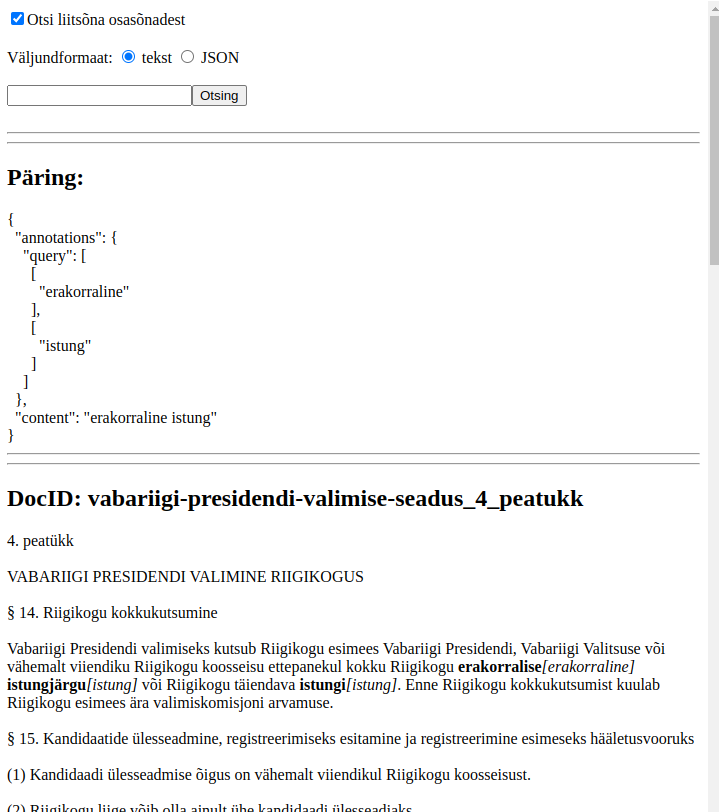
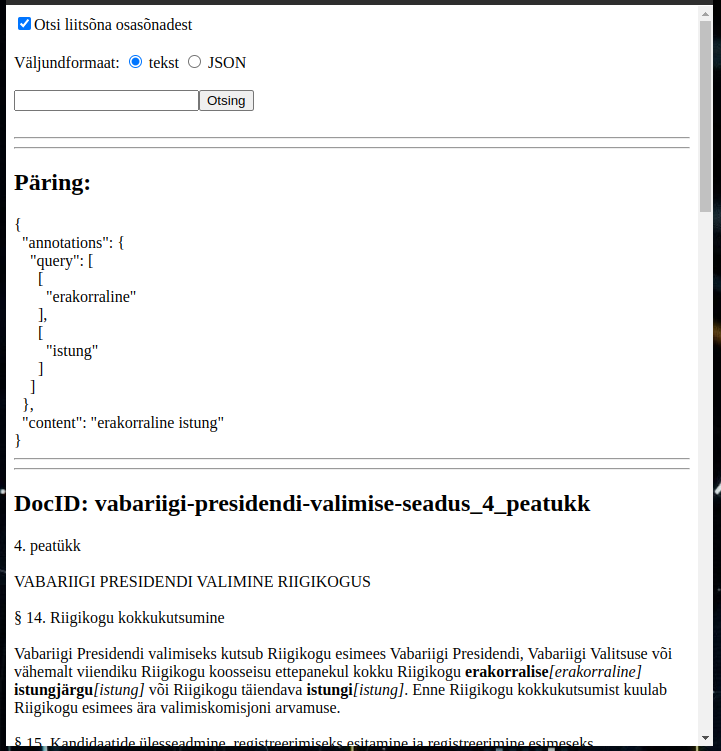
otsinguga seotud värk

Changed region(s): [[0.0, 0.0, 1.0, 1.0]]

diff --git a/wp/wp_otsing/README.md b/wp/wp_otsing/README.md
@@ -20,7 +20,9 @@ Kliki ```Otsing``` nuppu.
 
 <img width=55% src="Ekraanipilt-otsing-lemmad-otsing-2.png">
 
-Ruumi kokkuhoiu huvides on pildilt otsingutulemuste alumine osa äralõigatud.
+Ruumi kokkuhoiu huvides on keskmine osa pildist äralõigatud.
+
+<img width=55% src="Ekraanipilt-otsing-lemmad-otsing-2b.png">
 
 * [Tekstikorpuse kuvamine](https://smart-search.tartunlp.ai/wp/otsing-lemmad/texts)
 
@@ -56,7 +58,6 @@ Kliki ```Kuva``` nuppu.
 Kliki ```Otsing``` nuppu.
 
 <img width=55% src="Ekraanipilt-otsing-soned-otsing-2a.png">
-
 
 <img width=55% src="Ekraanipilt-otsing-soned-otsing-2b.png">
 
